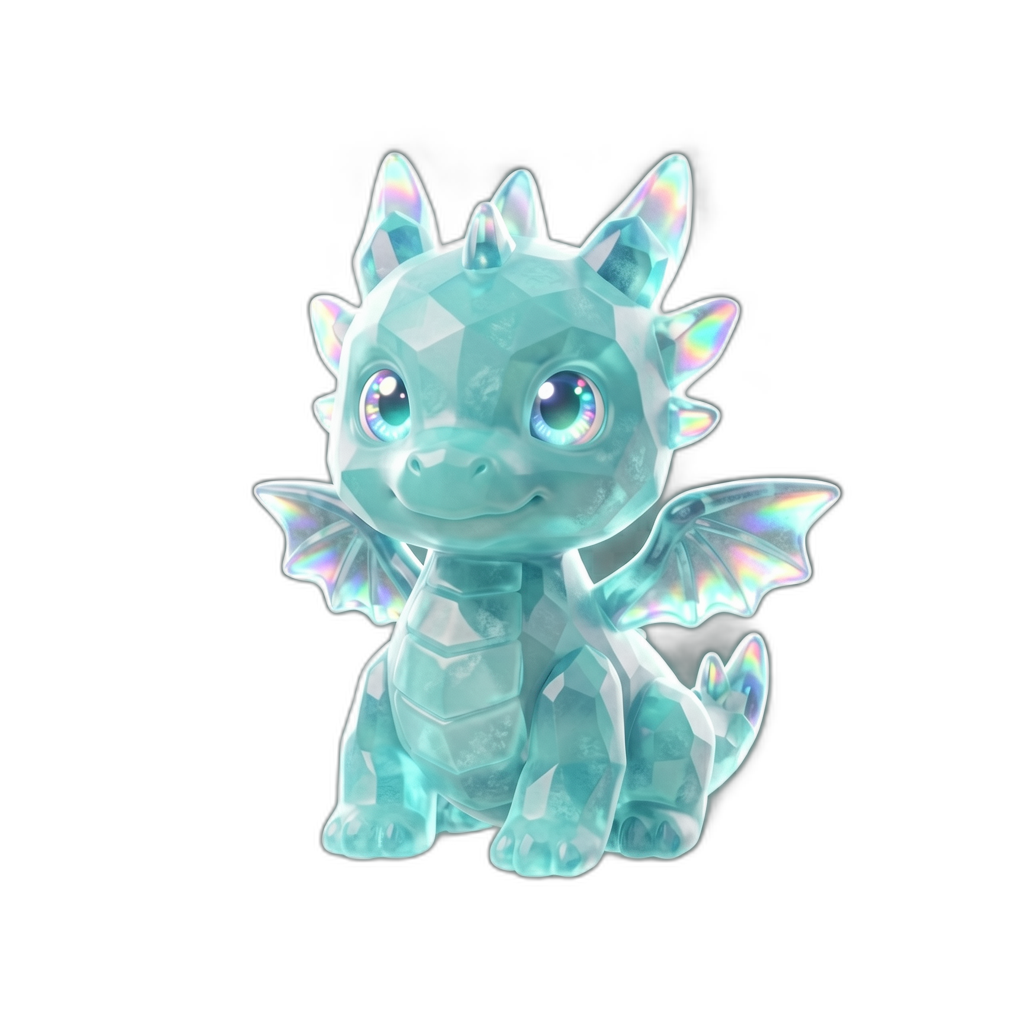
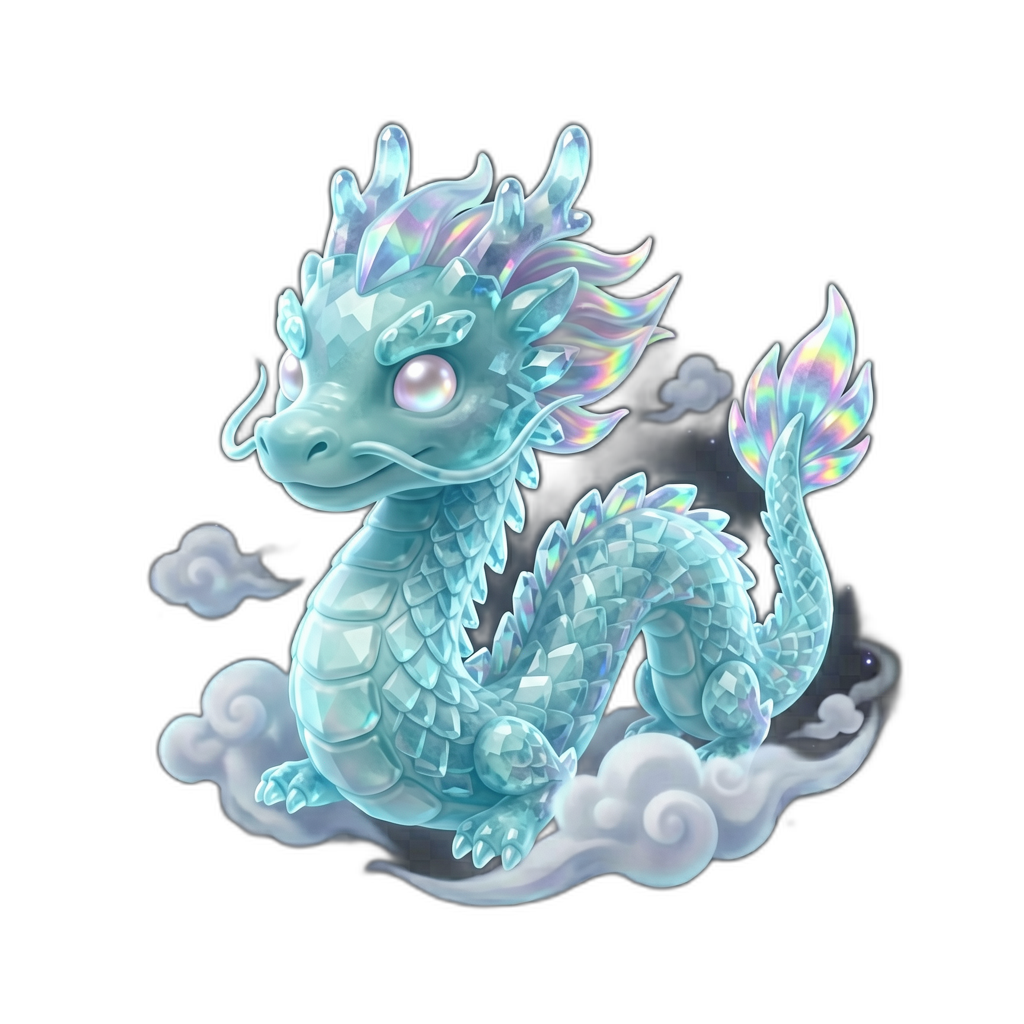
feat(art): redraw crystal dragon as Chinese shenlong style
Regenerate pet-crystal-dragon with Eastern serpentine dragon prompts instead of Western winged dragon look.

diff --git a/docs/art/prompts-weapons-bosses-pets.md b/docs/art/prompts-weapons-bosses-pets.md
@@ -69,7 +69,7 @@ Cute chibi space-fantasy game asset for kids, semi-3D stylized, rounded friendly
 |------|-------------|
 | `pet-star-fox.png` | A Star Dust Fox space pet, orange-gold little fox with sparkling stardust fur, big friendly eyes, fluffy tail tipped with tiny flame-like starlight, loyal companion vibe, sitting front view, game companion character |
 | `pet-nebula-cat.png` | A Nebula Cat space pet, purple-and-white kitten with nebula-swirl eyes, golden ear tips, soft lavender nebula wisps floating around the body only, elegant mysterious yet adorable, sitting front view, game companion character |
-| `pet-crystal-dragon.png` | A Crystal Dragon space pet, translucent ice-cyan mini dragon with cut-crystal body facets, bright eyes, dorsal fins refracting rainbow highlights, gentle healing vibe, sitting front view, game companion character |
+| `pet-crystal-dragon.png` | A Crystal Chinese dragon space pet, cute chibi Eastern long dragon (shenlong style), serpentine body coiled in a gentle S-shape, no bat wings, small antler-like horns and whiskers, translucent ice-cyan crystal scales with cut-gem facets, pearl-like bright eyes, flowing mane and tail tip with rainbow refraction, auspicious cloud wisps around the body only, gentle healing guardian vibe, front 3/4 view, kid-friendly, game companion character |
 
 ---
 
